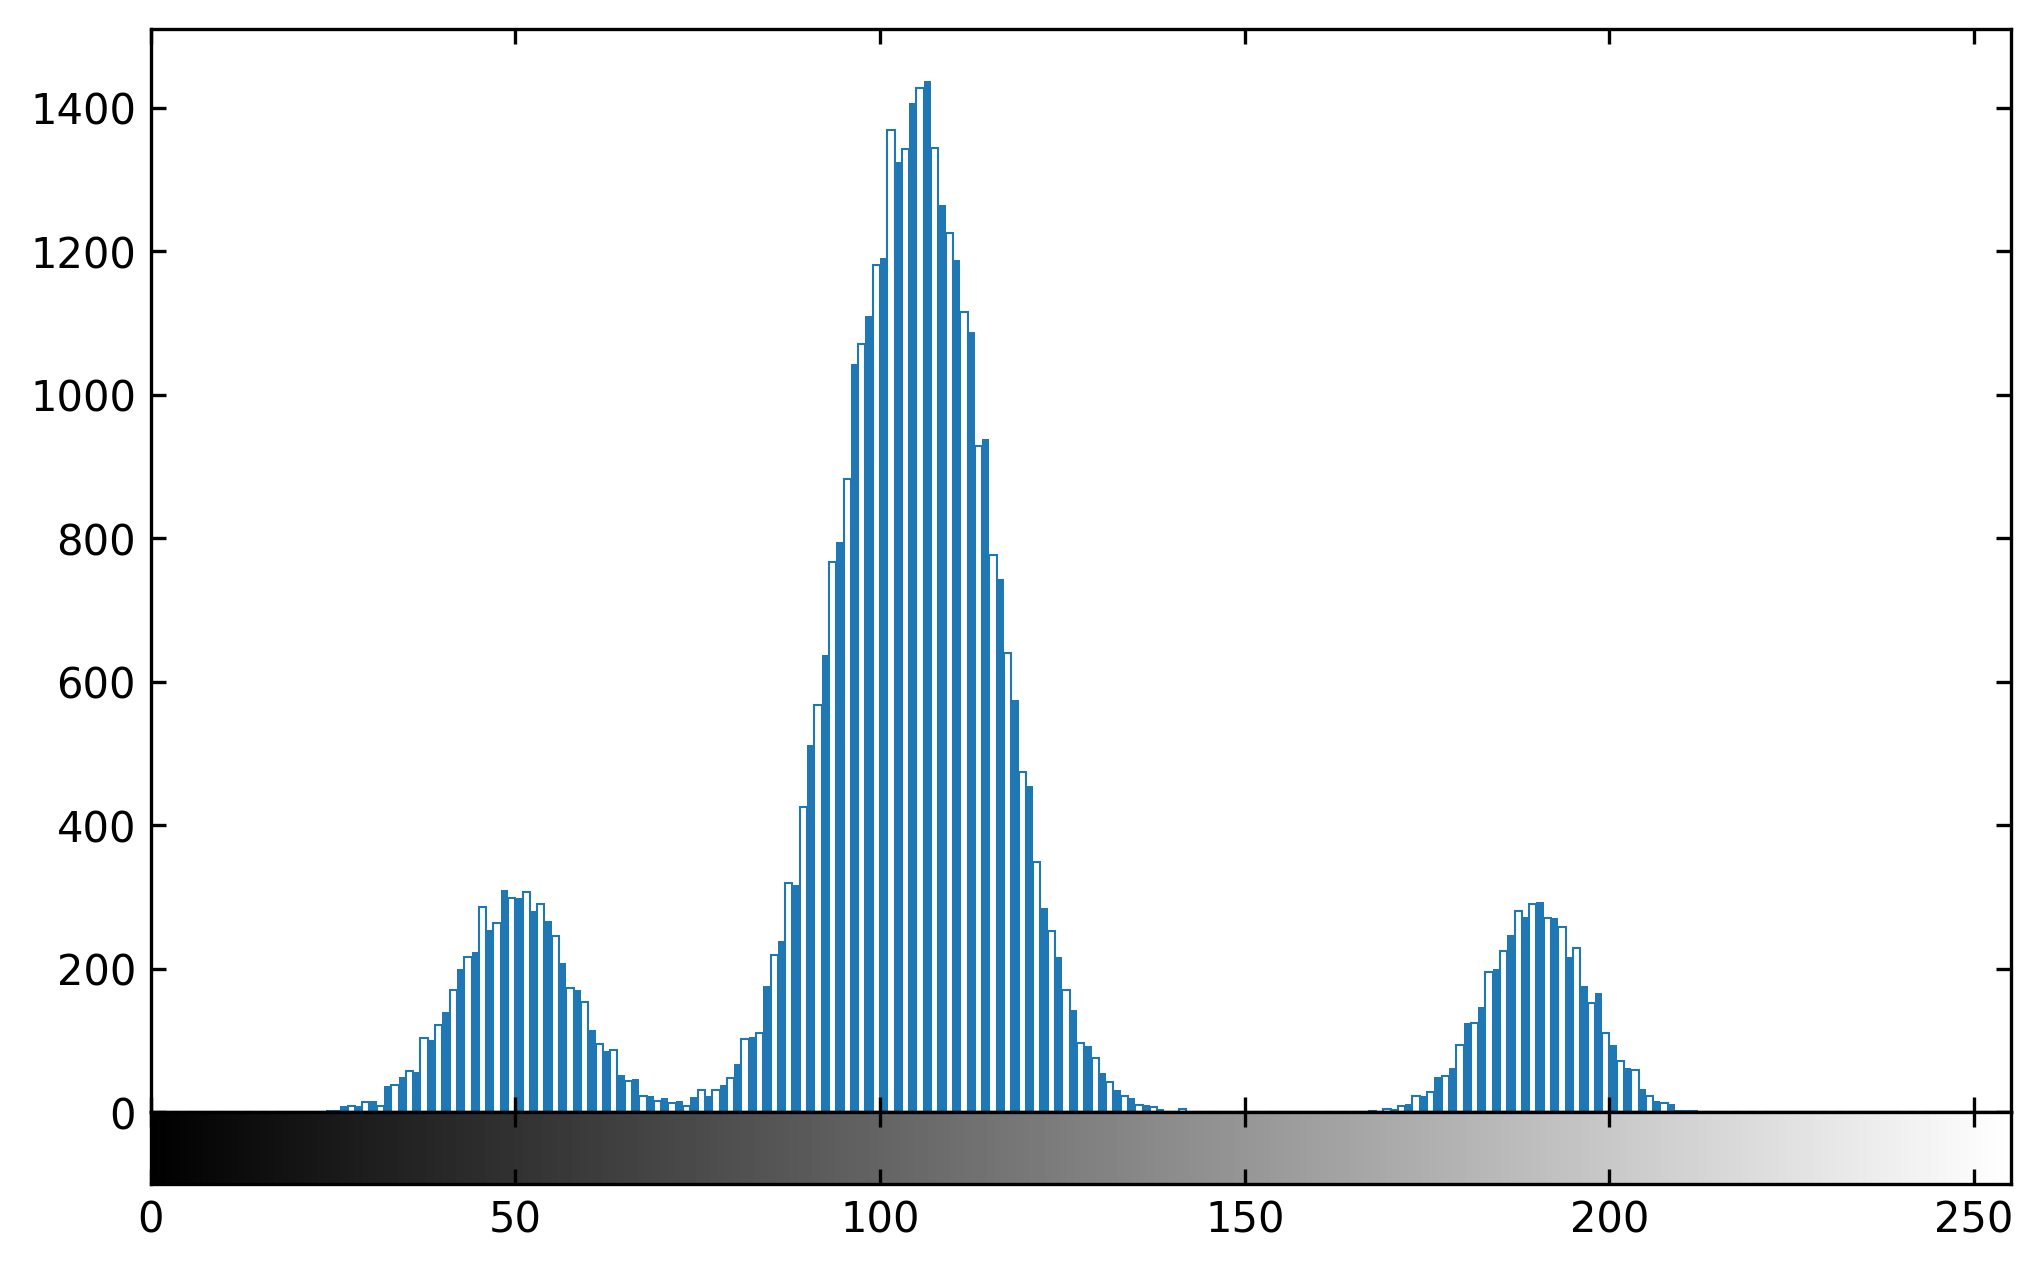
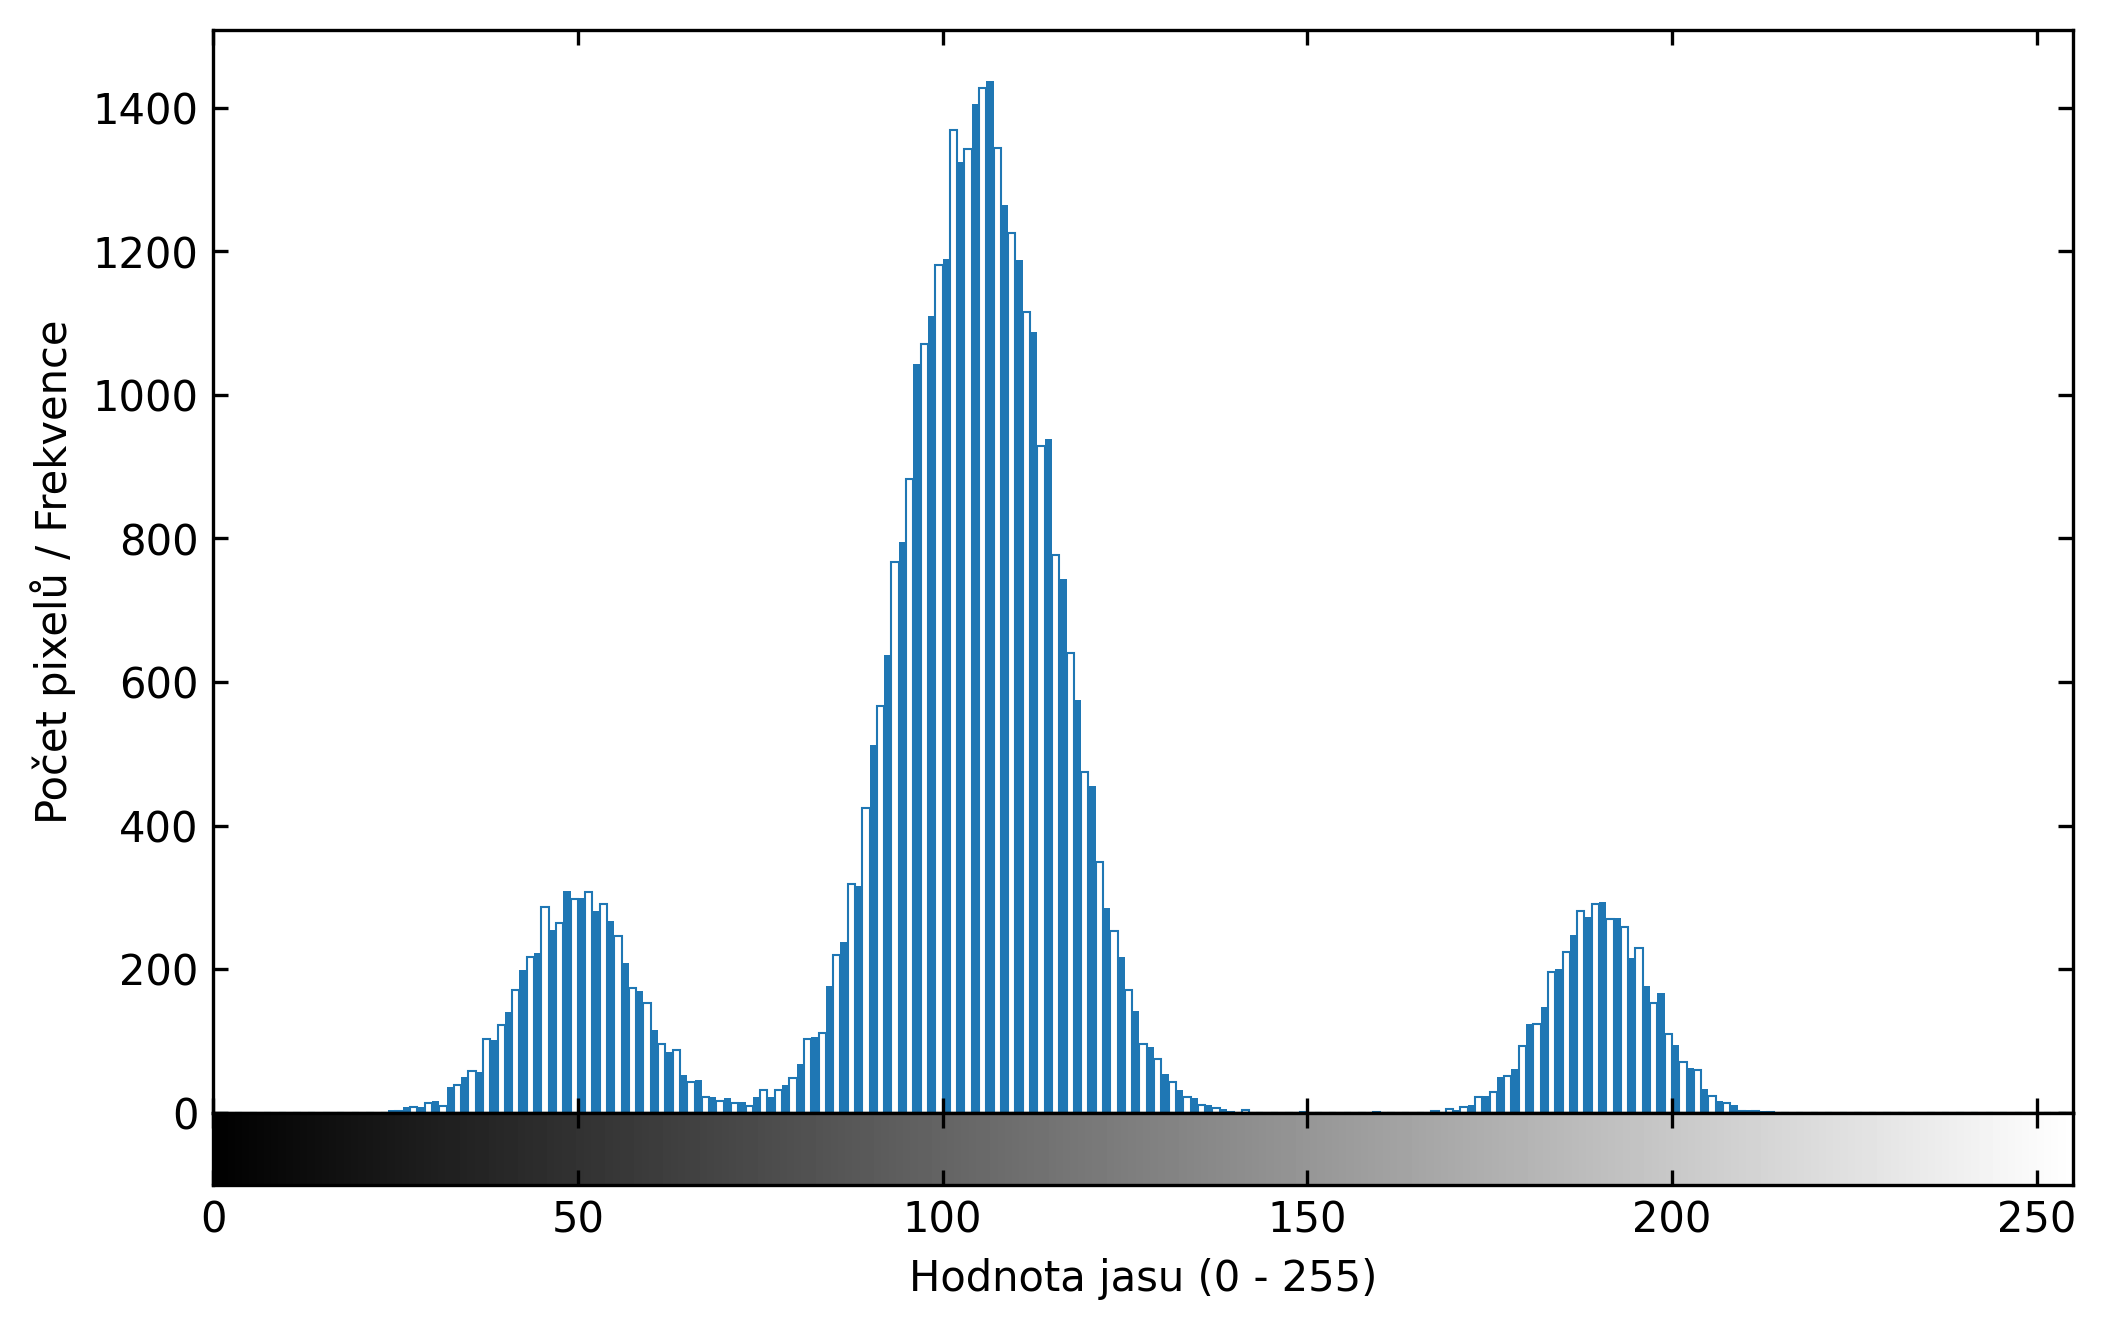
Initial Commit

diff --git a/Obrazky_do_reserse/Histogram.py b/Obrazky_do_reserse/Histogram.py
@@ -1,7 +1,7 @@
 import numpy as np
 import matplotlib.pyplot as plt
 
-# 1. Generování syntetických dat (s vyšším prostředním píkem - ponecháno)
+# 1. Generování syntetických dat
 np.random.seed(42)
 peak1 = np.random.normal(loc=50, scale=8, size=6000)
 peak2 = np.random.normal(loc=105, scale=10, size=35000)  # Vyšší pík
@@ -9,7 +9,7 @@ peak3 = np.random.normal(loc=190, scale=7, size=5000)
 data = np.concatenate([peak1, peak2, peak3])
 data = data[(data >= 0) & (data <= 255)]
 
-# 2. Nastavení grafu (Ponecháno)
+# 2. Nastavení grafu
 fig, (ax_hist, ax_gradient) = plt.subplots(
     nrows=2,
     gridspec_kw={"height_ratios": [15, 1]},
@@ -17,36 +17,28 @@ fig, (ax_hist, ax_gradient) = plt.subplots(
 )
 
 # --- NOVÁ KLÍČOVÁ ČÁST: Pruhovaný histogram ---
-
-# Ruční výpočet histogramu (získáme počty a hranice košů)
 counts, bins = np.histogram(data, bins=256, range=(0, 256))
-
-# Výpočet šířky jednoho sloupce
 bin_width = bins[1] - bins[0]
-
-# Definice modré barvy
 blue_color = '#1f77b4'
 
-# Smyčka prochází všechny koše a vykresluje sloupce jeden po druhém
 for i in range(len(counts)):
-    bin_left = bins[i]  # Levý okraj koše
-    count_value = counts[i]  # Výška sloupce
+    bin_left = bins[i]
+    count_value = counts[i]
 
-    # Podmínka pro střídání:
     if i % 2 == 0:
-        # Sudý sloupec: Plný
         ax_hist.bar(bin_left, count_value, width=bin_width, align='edge',
                     color=blue_color, edgecolor='none')
     else:
-        # Lichý sloupec: Prázdný obrys
         ax_hist.bar(bin_left, count_value, width=bin_width, align='edge',
                     color='none', edgecolor=blue_color, linewidth=0.5)
 
 # --- 3. Nastavení os a vzhledu ---
 ax_hist.set_xlim(0, 255)
-ax_hist.set_ylim(bottom=0)  # Osa Y se automaticky přizpůsobí
+ax_hist.set_ylim(bottom=0)
 
-# Tiky histogramu
+# PŘIDÁNO: Popis osy Y pro histogram
+ax_hist.set_ylabel('Počet pixelů / Frekvence', fontsize=10)
+
 ax_hist.tick_params(axis='x', which='both', bottom=True, labelbottom=False)
 ax_hist.tick_params(direction='in', right=True, top=True)
 
@@ -54,15 +46,15 @@ ax_hist.tick_params(direction='in', right=True, top=True)
 gradient = np.linspace(0, 255, 256).reshape(1, -1)
 ax_gradient.imshow(gradient, aspect='auto', cmap='gray', extent=[0, 255, 0, 1])
 
-# Tiky přechodu
 ax_gradient.set_yticks([])
 ax_gradient.set_xticks([0, 50, 100, 150, 200, 250])
 ax_gradient.tick_params(direction='in', top=True)
 
+# PŘIDÁNO: Popis osy X pro spodní přechod (který slouží jako osa X celého grafu)
+ax_gradient.set_xlabel('Hodnota jasu (0 - 255)', fontsize=10)
+
 # 5. Finální úpravy a uložení
 plt.subplots_adjust(hspace=0)
 
-# Uložení obrázku
 plt.savefig('histogram.png', dpi=300, bbox_inches='tight')
-
 plt.show()
